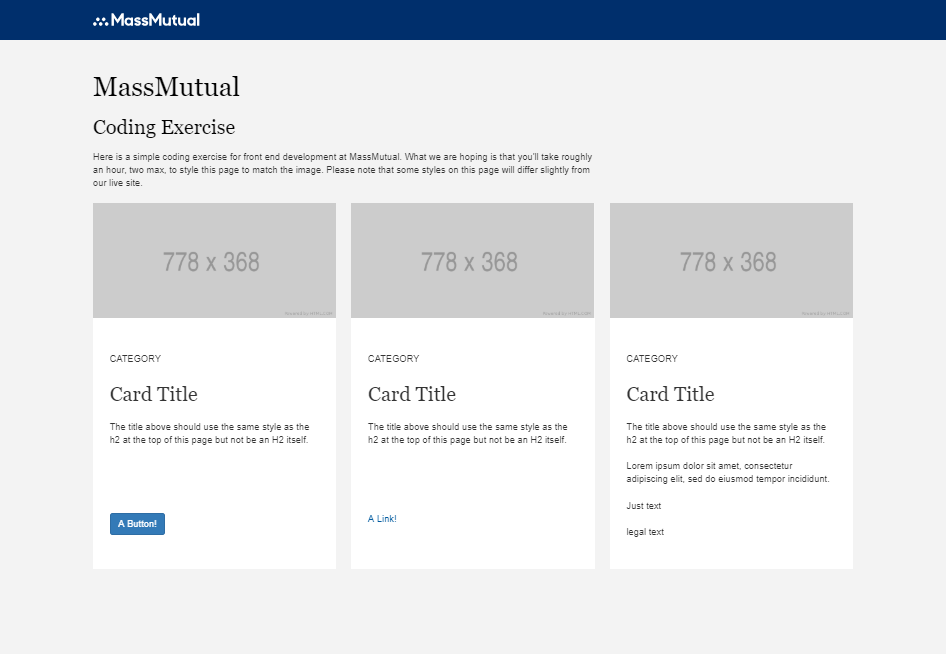
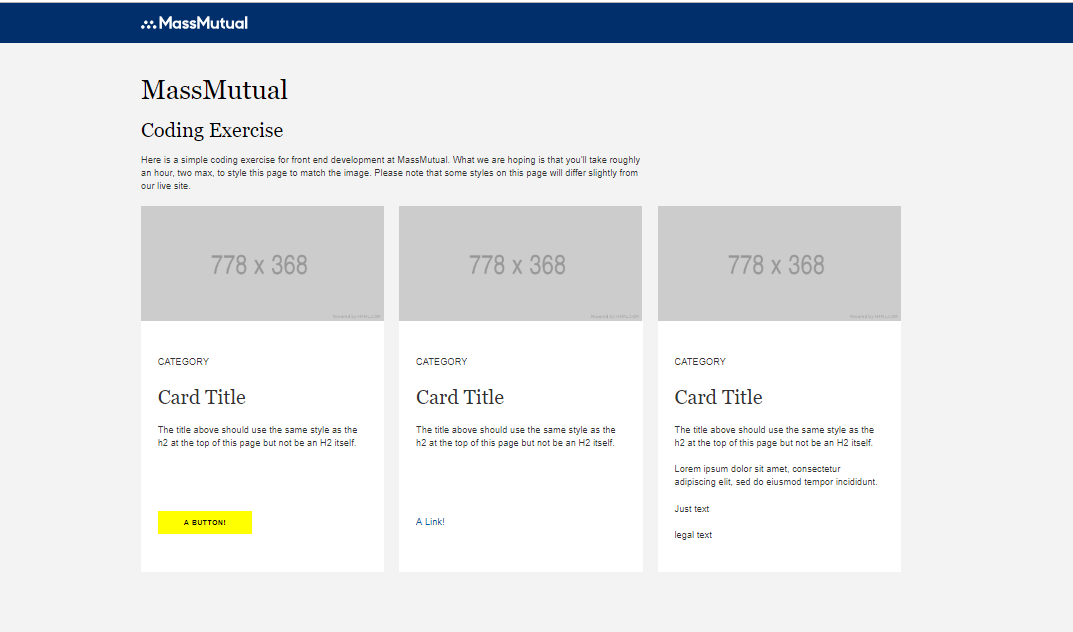
project complete

diff --git a/mm-code-exercise/mm-code-exercise/global-styles/_code-exercise.scss b/mm-code-exercise/mm-code-exercise/global-styles/_code-exercise.scss
@@ -4,7 +4,7 @@ $mm-sample-font-serif:      Georgia, "Times New Roman", Times, serif;
 
 
 html {
-  font-size: 62.5%; //why do we set the font size to this value at the html level?
+  font-size: 62.5%; //so that it remains consistent all throughout the page.
   position: relative;
   -webkit-tap-highlight-color: rgba(0,0,0,0);
 }
@@ -67,7 +67,7 @@ a {
   font-size: 1.2rem;
 }
 
-%btn-primary {
+.btn-primary {
   color: #000;
   font-size: 1rem;
   letter-spacing: .1rem;
@@ -79,12 +79,8 @@ a {
   border-radius: 0;
 }
 
+//card parent added for styling
 .mm-card-parent{
-  // display: grid;
-  // padding: 1rem;
-  // grid-template-columns: repeat(auto-fit,minmax(320px,1fr));
-  // grid-gap: 1rem;
-
    display: flex;
    flex-wrap: wrap;
    justify-content: space-between;
@@ -105,15 +101,8 @@ a {
 .mm-card {
   //feel free to make any comments to explain your thinking
   
-  //box-shadow: 0 4px 8px 0 rgba(0,0,0,0.2);
-  // transition: 0.3s;
-  // display: inline-block;
-  // float: left;
-  // width: 33%;
-  // padding: 10px;
-  // flex-basis: auto;
-  flex: 0 1 32%;
-  // display: grid;
+  //flex is used here to give styles to card
+  flex: 0 1 32%;  
   background-color: white;
   
 

diff --git a/mm-code-exercise/mm-code-exercise/global-styles/mm-code-exercise.css b/mm-code-exercise/mm-code-exercise/global-styles/mm-code-exercise.css
@@ -44,6 +44,17 @@ a {
   a:hover {
     color: #002f6c; }
 
+.btn-primary {
+  color: #000;
+  font-size: 1rem;
+  letter-spacing: .1rem;
+  text-transform: uppercase;
+  font-weight: bold;
+  padding: 1.2rem 4rem;
+  background-color: yellow;
+  border: 0;
+  border-radius: 0; }
+
 .mm-card-parent {
   display: flex;
   flex-wrap: wrap;

diff --git a/mm-code-exercise/mm-code-exercise/code-exercise.html b/mm-code-exercise/mm-code-exercise/code-exercise.html
@@ -42,7 +42,7 @@
             <p>&nbsp;</p>
             <p>&nbsp;</p>
             <footer>
-              <a href="#" class="btn btn-primary">A Button!</a>
+              <a href="#" class="btn-primary">A Button!</a>
             </footer>
           </div>
         </div>
